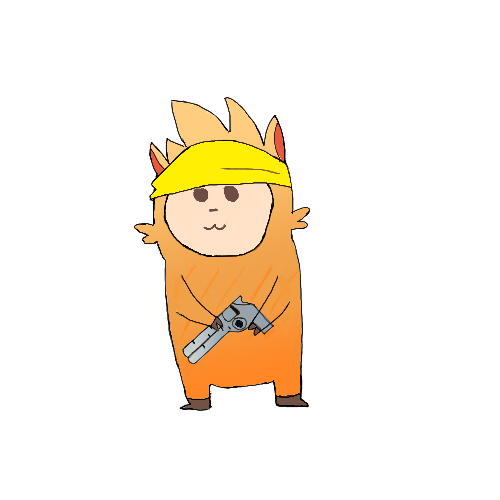
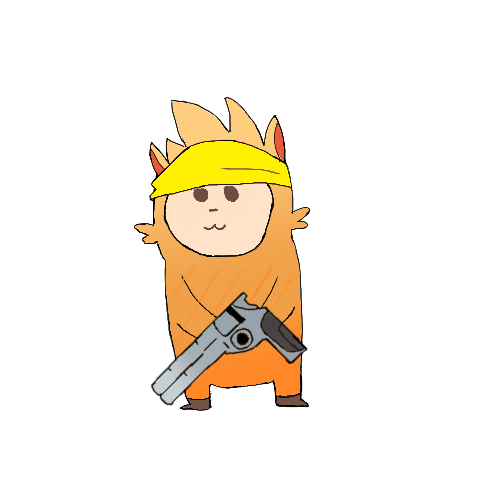
Added updated jaka assets are started implementation on username

Changed region(s): [[0.3, 0.57, 0.63, 0.81]]

diff --git a/client/src/helper/PlayerSelectorView.js b/client/src/helper/PlayerSelectorView.js
@@ -44,6 +44,12 @@ export default class PlayerSelectorView extends Phaser.GameObjects.Container {
     this.isReady = false
     this.isOccupied = false
 
+    this.nameText = this.scene.add.text(0, 505, 'Tom', { fontSize: '24px', fill: '#000' })
+    this.add(this.nameText)
+    this.nameText.setFontFamily('RobotoSlab-Regular')
+    this.nameText.setColor('#252525')
+    this.nameText.setOrigin(0.5, 0.5)
+
     this.readyButton = new TextButton(this.scene, 0, 600, 'Ready', function() {
     }.bind(this))
     this.add(this.readyButton)
@@ -106,20 +112,23 @@ export default class PlayerSelectorView extends Phaser.GameObjects.Container {
     this.readyButton.setOnButtonClick(function() {
     }.bind(this))
 
+    this.nameText.setVisible(true)
+    this.nameText.setText(playerData.username)
+
     this.characterInfoView.setVisible(true)
     this.characterInfoView.updateUI(alpacas[this.alpacaKey].stats)
   }
 
-  showUserAsCurrentPlayer() {
+  showUserAsCurrentPlayer(playerData) {
     this.setVisible(true)
     this.index = 0
-    this.alpacaKey = this.alpacaKeys[this.index]
+    this.alpacaKey = playerData.alpacaKey
     this.alpaca.setTexture(alpacas[this.alpacaKey].standby)
     this.leftArrow.setVisible(true)
     this.rightArrow.setVisible(true)
     this.readySquare.setVisible(true)
     this.readyText.setVisible(true)
-    this.isReady = false
+    this.isReady = playerData.isReady
     this.isOccupied = true
     this.readyText.setText('Not Ready')
     this.readyText.setColor('#c90b0b')
@@ -130,6 +139,9 @@ export default class PlayerSelectorView extends Phaser.GameObjects.Container {
       this.clickSound.play()
       this.ready()
     }.bind(this))
+
+    this.nameText.setVisible(true)
+    this.nameText.setText(playerData.username)
 
     this.characterInfoView.setVisible(true)
     this.characterInfoView.updateUI(alpacas[this.alpacaKey].stats)
@@ -147,6 +159,7 @@ export default class PlayerSelectorView extends Phaser.GameObjects.Container {
     this.readyText.setText('Not Ready')
     this.readyText.setColor('#c90b0b')
     this.readyButton.setVisible(false)
+    this.nameText.visible = false
     this.characterInfoView.setVisible(false)
   }
 
@@ -156,7 +169,7 @@ export default class PlayerSelectorView extends Phaser.GameObjects.Container {
     this.readyButton.setText('Join')
     this.readyButton.setOnButtonClick(function() {
       this.clickSound.play()
-      this.scene.game.socket.emit('join player slot', { roomId: this.scene.gameData.roomId, playerId: this.scene.game.socket.id, label: this.label})
+      this.scene.game.socket.emit('join player slot', { roomId: this.scene.gameData.roomId, playerId: this.scene.game.socket.id, label: this.label, username: this.scene.game.config.username})
       this.scene.hideJoinAndSpectateButtons()
     }.bind(this))
   }

diff --git a/client/src/scenes/TitleScene.js b/client/src/scenes/TitleScene.js
@@ -2,8 +2,13 @@ import { FADE_DURATION, TITLE_FONT_SIZE }  from '../config/const'
 import config from '../config/config'
 import TextButton from '../helper/TextButton'
 import { getParameterByName } from '../toolbox/Toolbox'
+import TextEdit from 'phaser3-rex-plugins/plugins/textedit'
 
 var firstTimeInScene = true
+
+const COLOR_PRIMARY = 0x4e342e;
+const COLOR_LIGHT = 0x7b5e57;
+const COLOR_DARK = 0x260e04;
 
 export default class TitleScene extends Phaser.Scene {
     constructor() {
@@ -45,10 +50,29 @@ export default class TitleScene extends Phaser.Scene {
             this.scene.start('Credits')
         }.bind(this));
 
+        this.setupUsernameInputField()
+
         if(firstTimeInScene) {
             firstTimeInScene = false
             this.navigateBasedOnQueryParams()
         }
+    }
+
+    setupUsernameInputField() {
+        const game = this.game
+
+        this.add.text(50, 0, 'Username', { fontSize: 32, color: '#00ff00', backgroundColor: '#00000099' })
+        const helloWorldText = this.add.text(50, 50, this.game.config.username, { fontSize: 32, color: '#00ff00', backgroundColor: '#00000099' })
+        helloWorldText.setInteractive().on('pointerdown', () => {
+            var config = {
+                onTextChanged: function(textObject, text) {
+                    game.config.username = text
+                    textObject.text = text
+                }
+    
+            };
+            this.rexUI.edit(helloWorldText, config)
+        })
     }
 
     update() {}

diff --git a/client/src/scenes/PreloaderScene.js b/client/src/scenes/PreloaderScene.js
@@ -1,6 +1,7 @@
 import { FADE_DURATION, TITLE_FONT_SIZE }  from '../config/const'
 import config from '../config/config'
 import io from 'socket.io-client'
+import rug from 'random-username-generator'
 
 export default class PreloaderScene extends Phaser.Scene {
     constructor() {
@@ -64,6 +65,7 @@ export default class PreloaderScene extends Phaser.Scene {
         this.load.image('jaka_shoot', 'client/src/assets/alpaca/jaka_shoot.png')
         this.load.image('jaka_reload', 'client/src/assets/alpaca/jaka_reload.png')
         this.load.image('jaka_hurt', 'client/src/assets/alpaca/jaka_hurt.png')
+        this.load.image('jaka_rest', 'client/src/assets/alpaca/jaka_rest.png')
 
         this.load.image('pompaca_standby', 'client/src/assets/alpaca/pompaca_standby.png')
         this.load.image('punka_standby', 'client/src/assets/alpaca/punka_standby.png')
@@ -96,8 +98,10 @@ export default class PreloaderScene extends Phaser.Scene {
         this.load.audio("gun_reload", 'client/src/assets/sounds/gun_reload.mp3')
         this.load.audio("gun_shot", 'client/src/assets/sounds/gun_shot.ogg')
 
-        //this.game.socket = io('http://localhost:3000')
+        // this.game.socket = io('http://localhost:3000')
         this.game.socket = io('https://alpaca-shootout.herokuapp.com')
+
+        this.game.config.username = rug.generate()
 
         Number.prototype.mod = function(n) {
             return ((this%n)+n)%n;

diff --git a/client/src/scenes/RoomScene.js b/client/src/scenes/RoomScene.js
@@ -26,7 +26,7 @@ export default class RoomScene extends Phaser.Scene {
     create() {
         this.clickSound = this.sound.add('click')
 
-        this.game.socket.emit('enter room', {roomId: this.gameData.roomId, userType: this.gameData.userType})
+        this.game.socket.emit('enter room', {roomId: this.gameData.roomId, userType: this.gameData.userType, username: this.game.config.username})
 
         this.background = this.add.image(0, 0, 'whitePixel').setScale(config.width, config.height)
         this.background.setOrigin(0, 0)
@@ -99,7 +99,7 @@ export default class RoomScene extends Phaser.Scene {
             let playerlabel = entry[1].label
             let playerSelectorView = this.playerSelectorViews[playerlabel]
             if(userId == entry[0]) {
-                playerSelectorView.showUserAsCurrentPlayer()
+                playerSelectorView.showUserAsCurrentPlayer(entry[1])
             }
             else {
                 playerSelectorView.showOnlinePlayer(entry[1])
@@ -151,7 +151,7 @@ export default class RoomScene extends Phaser.Scene {
         let userId = this.game.socket.id
         if(userId == data.id) {
             this.isPlayer = true
-            playerSelectorView.showUserAsCurrentPlayer()
+            playerSelectorView.showUserAsCurrentPlayer(data)
             this.spectateButton.setVisible(true)
         }
         else {

diff --git a/client/src/scenes/LobbyScene.js b/client/src/scenes/LobbyScene.js
@@ -39,6 +39,25 @@ export default class LobbyScene extends Phaser.Scene {
         this.game.socket.on("add slots", this.addSlots.bind(this))
         this.game.socket.on("update slot", this.updateRoom.bind(this));
         this.game.socket.on('disconnect', this.leaveLobby.bind(this))
+
+        this.setupUsernameInputField()
+    }
+
+    setupUsernameInputField() {
+        const game = this.game
+
+        this.add.text(50, 0, 'Username', { fontSize: 32, color: '#00ff00', backgroundColor: '#00000099' })
+        const helloWorldText = this.add.text(50, 50, this.game.config.username, { fontSize: 32, color: '#00ff00', backgroundColor: '#00000099' })
+        helloWorldText.setInteractive().on('pointerdown', () => {
+            var config = {
+                onTextChanged: function(textObject, text) {
+                    game.config.username = text
+                    textObject.text = text
+                }
+    
+            };
+            this.rexUI.edit(helloWorldText, config)
+        })
     }
 
     update() {}

diff --git a/server/lobby/Room.js b/server/lobby/Room.js
@@ -76,16 +76,17 @@ Room.prototype = {
 		this.state = newState
 	},
 
-	addPlayer: function(id) {
+	addPlayer: function(id, username) {
 		this.players[id] = {
 			id: id, 
 			label: this.claimFirstAvailablePlayerSlot(), 
 			alpacaKey: 'suri', 
 			isReady: false,
+			username: username,
 		}
 	},
 
-	addPlayerToSlot: function(id, label) {
+	addPlayerToSlot: function(id, label, username) {
 		if(this.playerSlots[playerLabelIndices[label]].available) {
 			this.playerSlots[playerLabelIndices[label]].available = false
 			this.players[id] = {
@@ -93,6 +94,7 @@ Room.prototype = {
 				label: label, 
 				alpacaKey: 'jaka', 
 				isReady: false,
+				username: username
 			}
 		}
 	},

diff --git a/server/lobby/Lobby.js b/server/lobby/Lobby.js
@@ -47,7 +47,7 @@ var Lobby = {
 			this.join(data.roomId)
 			if(data.userType == 'player' && !room.hasMaxPlayers()) {
 				data.userType = 'player'
-				room.addPlayer(this.id)
+				room.addPlayer(this.id, data.username)
 			} else {
 				data.userType = 'spectator'
 				room.addSpectator(this.id)
@@ -107,7 +107,7 @@ var Lobby = {
 		}
 
 		console.log('add player to room')
-		room.addPlayerToSlot(this.id, data.label)
+		room.addPlayerToSlot(this.id, data.label, data.username)
 		io.in(this.roomId).emit("player joined", room.players[this.id])
 		broadcastSlotStateUpdate(data.roomId, room)
 	},

diff --git a/client/src/config/config.js b/client/src/config/config.js
@@ -1,3 +1,5 @@
+import RexUIPlugin from 'phaser3-rex-plugins/templates/ui/ui-plugin'
+
 import PreloaderScene from '../scenes/PreloaderScene'
 import TitleScene from '../scenes/TitleScene'
 import CreditsScene from '../scenes/CreditsScene'
@@ -8,6 +10,18 @@ import GameScene from '../scenes/GameScene'
 export default {
     type: Phaser.AUTO,
     parent: "AlpacaShootout",
+    dom: {
+        createContainer: true
+    },
+    plugins: {
+		scene: [
+			{
+				key: 'rexUI',
+				plugin: RexUIPlugin,
+				mapping: 'rexUI'
+			}
+		]
+    },
     width: 540,
     height: 960,
     scene: [

diff --git a/client/src/config/const.js b/client/src/config/const.js
@@ -8,13 +8,13 @@ const alpacas = {
         reload: 'jaka_reload',
         shield: 'jaka_shield',
         hurt: 'jaka_hurt',
-        rest: 'jaka_standby',
+        rest: 'jaka_rest',
         stats: {
             heartMax: 3,
             ammoMax: 3,
             shieldMax: 4,
             heart: 3,
-            ammo: 2,
+            ammo: 1,
             shield: 4
         }
     },
@@ -62,7 +62,7 @@ const alpacas = {
             ammoMax: 4,
             shieldMax: 3,
             heart: 3,
-            ammo: 2,
+            ammo: 1,
             shield: 3
         }
     }

diff --git a/client/index.html b/client/index.html
@@ -9,7 +9,4 @@
 
   <div id="AlpacaShootout">
   </div>
-
-  <input type="text" id="myText" style="visibility: hidden"/>
-  <textarea id="area51" style="visibility: hidden">SOME TEXT HERE</textarea>
 </html>
